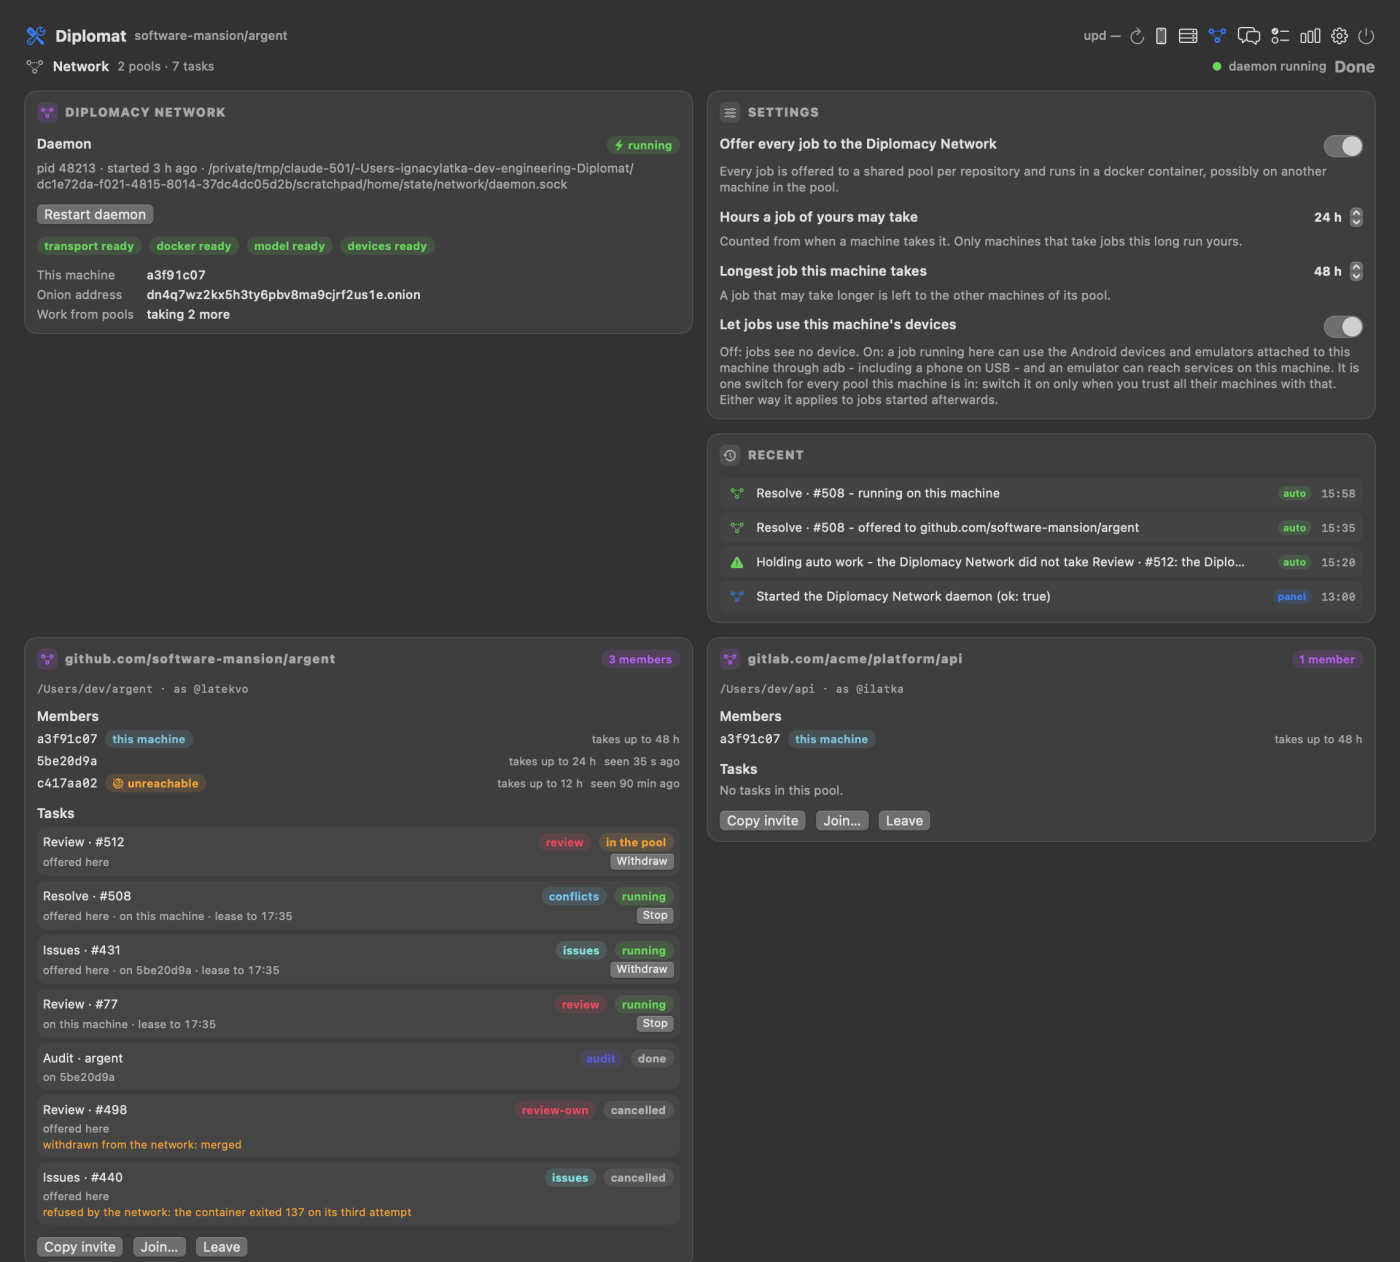
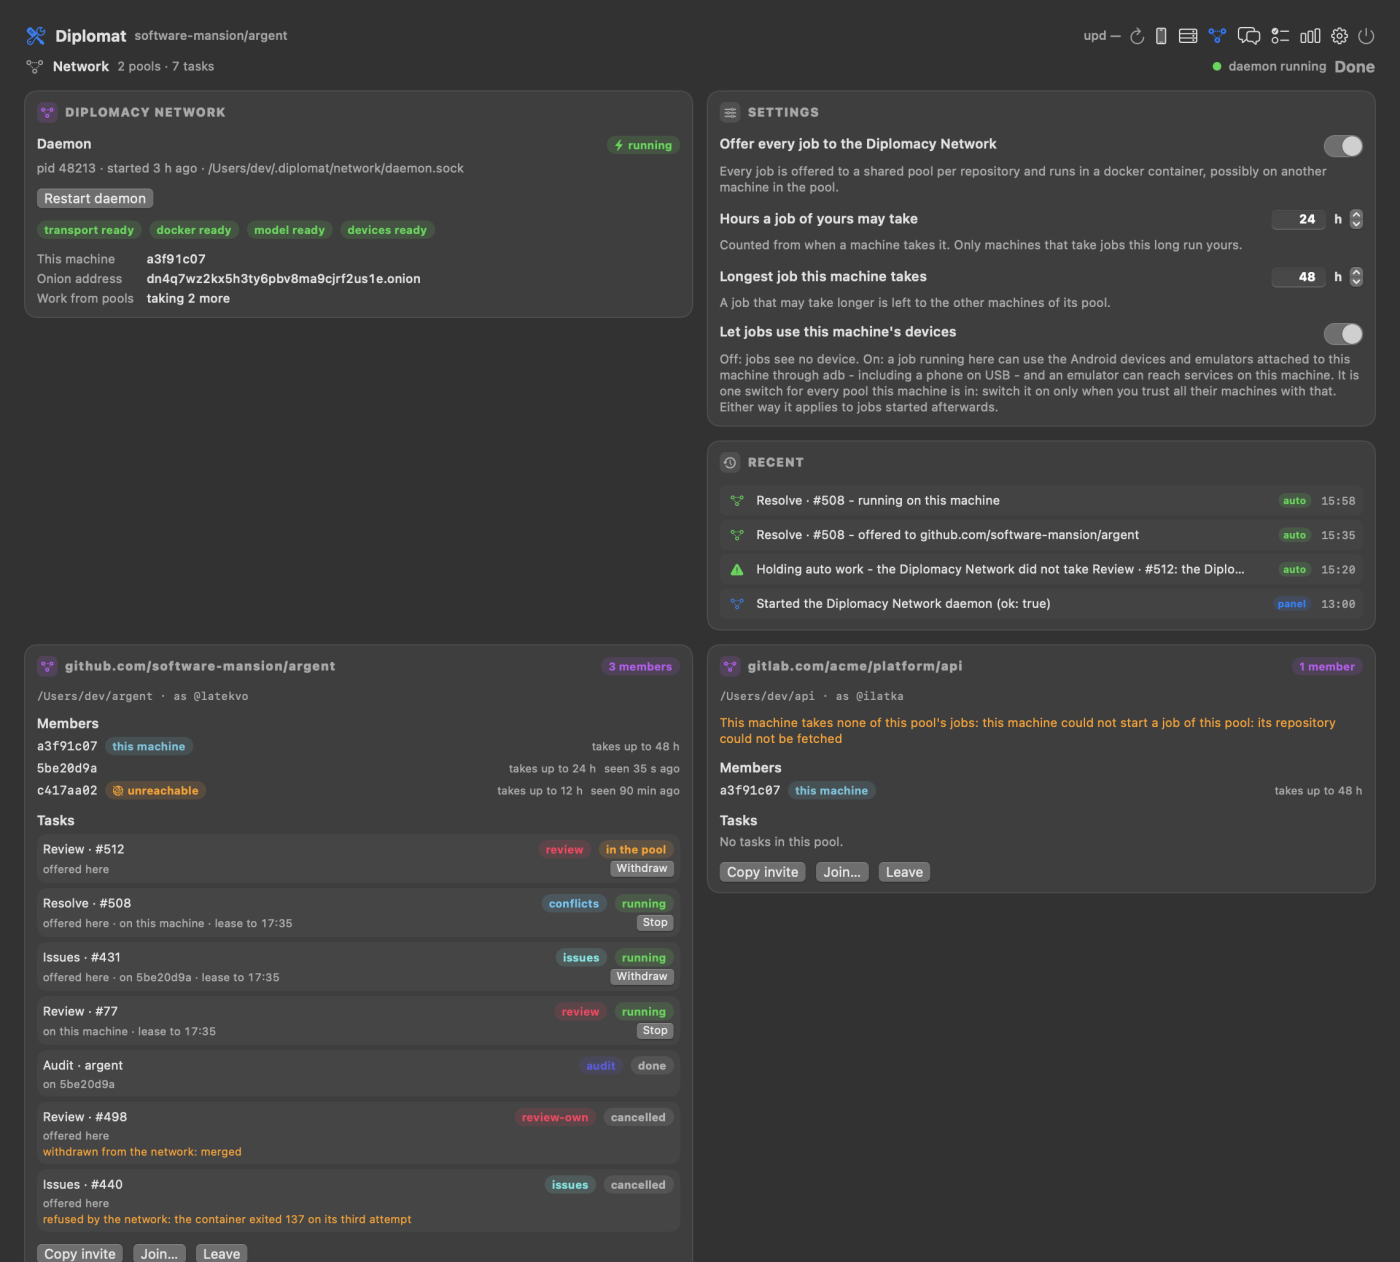
Diplomacy Network front end: a stop says what the installer ended in the daemon's store
A --stop-daemon that finds no daemon running cancels this machine's open
offers and ends its runs in the store, and answers how many under `ended`.
Both applets run the installer's stop at switch-off whether or not the daemon
answers; its feed line names those counts when either is above zero, on both.

docs/img/network.png is the screen as it stands: the hours fields, a pool this
machine takes nothing from. Its daemon directory is a fixture path.

diff --git a/packages/diplomat-platform/macos/Sources/Diplomat/NetworkTest.swift b/packages/diplomat-platform/macos/Sources/Diplomat/NetworkTest.swift
@@ -298,10 +298,15 @@ enum NetworkTest {
         let installer = Calls<String>()
         // The withdrawals the daemon had heard each time it was told to stop.
         let withdrawnAtStop = Calls<Int>()
+        // The offers and runs the next stop finds left in the store.
+        let leftInStore = Calls<(Int, Int)>()
         DiplomacyNetwork.installerForSelfTest = { verb in
             installer.add(verb)
-            if verb == "--stop-daemon" { withdrawnAtStop.add(script.count(NetworkRoute.withdraw)) }
             var result = AllocatorInstall()
+            if verb == "--stop-daemon" {
+                withdrawnAtStop.add(script.count(NetworkRoute.withdraw))
+                (result.endedOffers, result.endedRuns) = leftInStore.all.last ?? (0, 0)
+            }
             result.daemonRunning = verb != "--stop-daemon" && FileManager.default.fileExists(atPath: socket)
             return result
         }
@@ -1321,14 +1326,48 @@ enum NetworkTest {
         _ = AgentRegistry.forget(Set(AgentRegistry.load().map(\.runID)))
         bookByHand(90271, task: "task-deaf")
         stopDaemon()
+        leftInStore.add((2, 1))
         store.networkEnabled = false
         await store.networkLifecycle?.value
+        leftInStore.add((0, 0))
         check("with the daemon silent the run is retired all the same, and the daemon stopped",
               booked("task-deaf") == nil
                 && feedDetails(NetworkAudit.failed).last
                     == "Auto · Review-req · #90271 - withdrawn: the Diplomacy Network was switched off"
                 && installer.all.last == "--stop-daemon"
                 && installer.all.filter { $0 == "--stop-daemon" }.count == 2)
+        let leftNote = " the daemon had left in its store"
+        check("…and the feed says what the installer ended in the store",
+              feedDetails(NetworkAudit.stop).last
+                == "Stopped the Diplomacy Network daemon (ok: true), cancelling 2 offers and "
+                    + "ending 1 run" + leftNote)
+        func stopped(_ answer: String) -> String? {
+            (try? JSONDecoder().decode(AllocatorInstall.self, from: Data(answer.utf8)))
+                .map(DiplomacyNetwork.stoppedLine)
+        }
+        let stoppedOK = "Stopped the Diplomacy Network daemon (ok: true)"
+        let stopAnswers: [(String, String)] = [
+            (#"{"ok":true,"daemonRunning":false,"pid":null}"#, stoppedOK),
+            (#"{"ended":{"offers":0,"runs":0}}"#, stoppedOK),
+            (#"{"ended":{"offers":1,"runs":0}}"#, stoppedOK + ", cancelling 1 offer" + leftNote),
+            (#"{"ended":{"offers":2}}"#, stoppedOK + ", cancelling 2 offers" + leftNote),
+            (#"{"ended":{"offers":0,"runs":1}}"#, stoppedOK + ", ending 1 run" + leftNote),
+            (#"{"ended":{"runs":3}}"#, stoppedOK + ", ending 3 runs" + leftNote),
+            (#"{"ended":{"offers":2,"runs":1}}"#,
+             stoppedOK + ", cancelling 2 offers and ending 1 run" + leftNote),
+            (#"{"ended":"2"}"#, stoppedOK),
+            (#"{"ended":[2,1]}"#, stoppedOK),
+            (#"{"ended":{"offers":"2","runs":true}}"#, stoppedOK),
+            (#"{"ended":{"offers":-1,"runs":1.5}}"#, stoppedOK),
+            (#"{"ok":false,"ended":{"offers":0,"runs":2},"error":"a container is still there"}"#,
+             "Stopped the Diplomacy Network daemon (ok: false), ending 2 runs" + leftNote
+                + ": a container is still there"),
+            (#"{"daemonRunning":true,"ended":{"offers":1}}"#,
+             "Stopped the Diplomacy Network daemon (ok: false), cancelling 1 offer" + leftNote),
+        ]
+        for (answer, line) in stopAnswers {
+            check("a stop that answers \(answer) is said as \(line)", stopped(answer) == line)
+        }
 
         // 26. An ask is answered by work that ran, not by its offer. Offered, it stands
         //     marked and is not offered twice; its run finishing forgets it, and so does

diff --git a/packages/diplomat-platform/macos/Sources/Diplomat/DeviceAllocator.swift b/packages/diplomat-platform/macos/Sources/Diplomat/DeviceAllocator.swift
@@ -230,6 +230,10 @@ struct AllocatorInstall: Decodable, Equatable {
     /// What went wrong, when the installer says (a restart whose old daemon never exited,
     /// a start beside a daemon that does not answer).
     var error: String?
+    /// The offers and runs a Diplomacy Network `--stop-daemon` ended in the store its
+    /// daemon had left them in.
+    var endedOffers = 0
+    var endedRuns = 0
 
     init() {}
 
@@ -250,12 +254,17 @@ struct AllocatorInstall: Decodable, Equatable {
         version = try? c.decode(String.self, forKey: .version)
         outdated = (try? c.decode(Bool.self, forKey: .outdated)) ?? false
         drift = (try? c.decode([String].self, forKey: .drift)) ?? []
+        let ended = try? c.nestedContainer(keyedBy: EndedKeys.self, forKey: .ended)
+        endedOffers = (try? ended?.decode(Int.self, forKey: .offers)) ?? 0
+        endedRuns = (try? ended?.decode(Int.self, forKey: .runs)) ?? 0
     }
 
     private enum CodingKeys: String, CodingKey {
         case mcpRegistered, skillInstalled, ruleInstalled, claudeMdInjected, daemonRunning
-        case installed, version, outdated, drift, error
+        case installed, version, outdated, drift, error, ended
     }
+
+    private enum EndedKeys: String, CodingKey { case offers, runs }
 
     /// This reply, keeping `previous`'s install status when the reply does not report
     /// one, so a reply without `installed` never reads as "not installed".

diff --git a/packages/diplomat-platform/macos/Sources/Diplomat/DiplomacyNetwork.swift b/packages/diplomat-platform/macos/Sources/Diplomat/DiplomacyNetwork.swift
@@ -90,6 +90,19 @@ enum DiplomacyNetwork {
     static func restartDaemon() -> AllocatorInstall { run("--restart-daemon", deps: true) }
     static func stopDaemon() -> AllocatorInstall { run("--stop-daemon") }
 
+    /// The feed line for a stop: how it went, and how many offers and runs the installer
+    /// ended that the daemon had left in its store.
+    static func stoppedLine(_ result: AllocatorInstall) -> String {
+        let said = [("cancelling", result.endedOffers, "offer"), ("ending", result.endedRuns, "run")]
+            .filter { $0.1 > 0 }
+            .map { "\($0.0) \($0.1) \($0.2)\($0.1 == 1 ? "" : "s")" }
+        return "Stopped the Diplomacy Network daemon "
+            + "(ok: \(!result.daemonRunning && result.error == nil))"
+            + (said.isEmpty ? ""
+                : ", \(said.joined(separator: " and ")) the daemon had left in its store")
+            + (result.error.map { ": \($0)" } ?? "")
+    }
+
     // MARK: the retired mesh node
 
     /// The module the mesh node Diplomat once ran was started as (`python3 -m szpontnet`).

diff --git a/packages/diplomat-platform/macos/Sources/Diplomat/NetworkMonitor.swift b/packages/diplomat-platform/macos/Sources/Diplomat/NetworkMonitor.swift
@@ -68,10 +68,7 @@ extension Store {
                     let result = await Task.detached(priority: .userInitiated) {
                         DiplomacyNetwork.stopDaemon()
                     }.value
-                    AuditLog.log("panel", NetworkAudit.stop,
-                                 "Stopped the Diplomacy Network daemon "
-                                 + "(ok: \(!result.daemonRunning && result.error == nil))"
-                                 + (result.error.map { ": \($0)" } ?? ""))
+                    AuditLog.log("panel", NetworkAudit.stop, DiplomacyNetwork.stoppedLine(result))
                 }
             }
         }

diff --git a/packages/diplomat-platform/linux/tests/test_network_wiring.py b/packages/diplomat-platform/linux/tests/test_network_wiring.py
@@ -678,6 +678,54 @@ def test_the_switch_starts_and_stops_the_daemon_off_the_gui_thread(store, daemon
     assert lines("network-stop") == ["Stopped the Diplomacy Network daemon (ok: true)"]
 
 
+LEFT = " the daemon had left in its store"
+
+
+@pytest.mark.parametrize("answer, note", [
+    (None, ""),
+    ({}, ""),
+    ({"ended": {"offers": 0, "runs": 0}}, ""),
+    ({"ended": {"offers": 1, "runs": 0}}, ", cancelling 1 offer" + LEFT),
+    ({"ended": {"offers": 2}}, ", cancelling 2 offers" + LEFT),
+    ({"ended": {"offers": 0, "runs": 1}}, ", ending 1 run" + LEFT),
+    ({"ended": {"runs": 3}}, ", ending 3 runs" + LEFT),
+    ({"ended": {"offers": 2, "runs": 1}}, ", cancelling 2 offers and ending 1 run" + LEFT),
+    ({"ended": "2"}, ""),
+    ({"ended": [2, 1]}, ""),
+    ({"ended": {"offers": "2", "runs": True}}, ""),
+    ({"ended": {"offers": -1, "runs": 1.5}}, ""),
+])
+def test_what_a_stop_ended_in_the_store_is_a_note_only_when_it_ended_something(answer, note):
+    assert dn.ended_note(answer) == note
+
+
+@pytest.mark.parametrize("answer, line", [
+    ({"ok": True, "daemonRunning": False, "pid": None, "ended": {"offers": 2, "runs": 1}},
+     "Stopped the Diplomacy Network daemon (ok: true), cancelling 2 offers and ending 1 run"
+     + LEFT),
+    ({"ok": False, "daemonRunning": False, "ended": {"offers": 0, "runs": 2},
+      "error": "a container is still there"},
+     "Stopped the Diplomacy Network daemon (ok: false), ending 2 runs" + LEFT
+     + ": a container is still there"),
+])
+def test_a_stop_with_no_daemon_answering_runs_the_installer_and_says_what_it_ended(
+        store, on, monkeypatch, answer, line):
+    ran = []
+    monkeypatch.setattr(da, "run_installer", lambda script, arg: ran.append(arg) or answer)
+    store.set_network_enabled(False)
+    assert store.wait_for_background() == []
+    assert ran == ["--stop-daemon"]
+    assert lines("network-stop") == [line]
+
+
+def test_a_start_says_nothing_of_a_store(store, on, monkeypatch):
+    monkeypatch.setattr(da, "run_installer", lambda script, arg: {
+        "daemonRunning": True, "ended": {"offers": 2, "runs": 1}})
+    store.start_network_async()
+    assert store.wait_for_background() == []
+    assert lines("network-start") == ["Started the Diplomacy Network daemon (ok: true)"]
+
+
 def test_a_start_fetches_no_dependency(store, on, installer, monkeypatch):
     fetched = []
     monkeypatch.setattr(da, "ensure_deps", lambda *a, **kw: fetched.append(a) or True)

diff --git a/packages/diplomat-platform/linux/diplomat_app/store.py b/packages/diplomat-platform/linux/diplomat_app/store.py
@@ -5831,17 +5831,18 @@ class Store(QObject):
         result = diplomacynetwork.stop_daemon()
         self._log_network_daemon(
             autofix.SOURCE_PANEL, network.AUDIT_STOP, "Stopped", result,
-            ok=result is not None and not result.get("daemonRunning"))
+            ok=result is not None and not result.get("daemonRunning"),
+            note=diplomacynetwork.ended_note(result))
 
     def _log_network_daemon(self, source: str, action: str, did: str,
-                            result: dict | None, *, ok: bool) -> None:
+                            result: dict | None, *, ok: bool, note: str = "") -> None:
         """One feed line for an installer action, with what it really did."""
         error = (result.get("error") if result is not None
                  else "the installer could not be run")
         ok = ok and not error
         activity.log(source, action,
                      f"{did} the Diplomacy Network daemon (ok: {'true' if ok else 'false'})"
-                     + (f": {error}" if error else ""))
+                     + note + (f": {error}" if error else ""))
 
     def _start_network_daemon(self, source: str, *, restart: bool = False,
                               quietly: bool = False) -> None:

diff --git a/packages/diplomat-platform/linux/diplomat_app/diplomacynetwork.py b/packages/diplomat-platform/linux/diplomat_app/diplomacynetwork.py
@@ -112,6 +112,18 @@ def stop_daemon() -> dict | None:
     return da.run_installer(install_js(), "--stop-daemon")
 
 
+def ended_note(result: Mapping[str, Any] | None) -> str:
+    """What a stop's feed line adds when the installer ended offers or runs the daemon
+    had left in its store; empty for none."""
+    ended = (result or {}).get("ended")
+    said = []
+    for key, verb, noun in (("offers", "cancelling", "offer"), ("runs", "ending", "run")):
+        n = ended.get(key) if isinstance(ended, Mapping) else None
+        if type(n) is int and n > 0:
+            said.append(f"{verb} {n} {noun}{'' if n == 1 else 's'}")
+    return f", {' and '.join(said)} the daemon had left in its store" if said else ""
+
+
 # MARK: the socket
 
 #: Every route answers from memory; an offer also signs and stores a record.

diff --git a/docs/network.md b/docs/network.md
@@ -356,7 +356,9 @@ panel's red line says when the daemon does not answer.
 Switching the network off withdraws this machine's open offers, stops the jobs it runs for the
 pool and frees their PRs and issues for agents in terminals again. The daemon removes its
 containers, mirrors and run records and exits; the machine's key, its pools and the image stay,
-so switched on again it is the member it was. Work that was asked for and
+so switched on again it is the member it was. With no daemon running to do it, the stop
+itself cancels the offers and ends the runs left in the daemon's store, and its line in the
+feed says how many. Work that was asked for and
 had not run is started in a terminal from the queue on the next poll. A monitor's own find
 counts its offer as an attempt, so it is started again on that monitor's retry schedule. A job
 started by hand whose offer the daemon had not answered is withdrawn if the daemon turns out to
